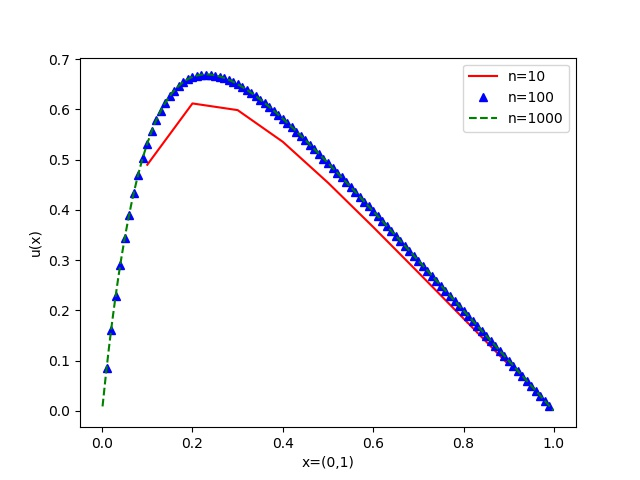
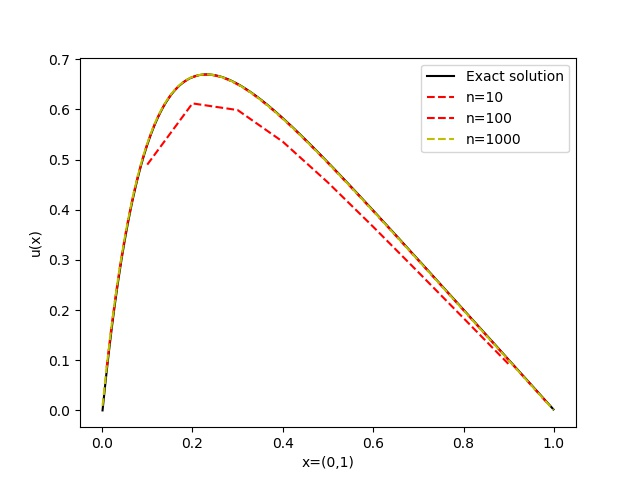
endra plottekode
endra plottekode

diff --git a/Project1/1_b/Plotte_code.py b/Project1/1_b/Plotte_code.py
@@ -12,6 +12,7 @@ x1_value = []
 data2 = open('valn2.txt', 'r')
 y2_value = []
 x2_value = []
+ex_vals = []
 
 for line in data:
     y_value.append(float(line.split(' ')[0]))
@@ -24,11 +25,12 @@ for line in data1:
 for line in data2:
     y2_value.append(float(line.split(' ')[0]))
     x2_value.append(float(line.split(' ')[1]))
+    ex_vals.append(float(line.split(" ")[2]))
 
-plt.plot(x_value,y_value,"r-", label="n=10")
-plt.plot(x1_value, y1_value,"b^", label="n=100" )
-plt.plot(x2_value, y2_value,"g--",label="n=1000" )
-
+plt.plot(x2_value, ex_vals, "k-",label="Exact solution")
+plt.plot(x_value,y_value,"r--", label="n=10")
+plt.plot(x1_value, y1_value,"r--", label="n=100" )
+plt.plot(x2_value, y2_value,"y--",label="n=1000" )
 plt.xlabel('x=(0,1)')
 plt.ylabel('u(x)')
 plt.legend()
